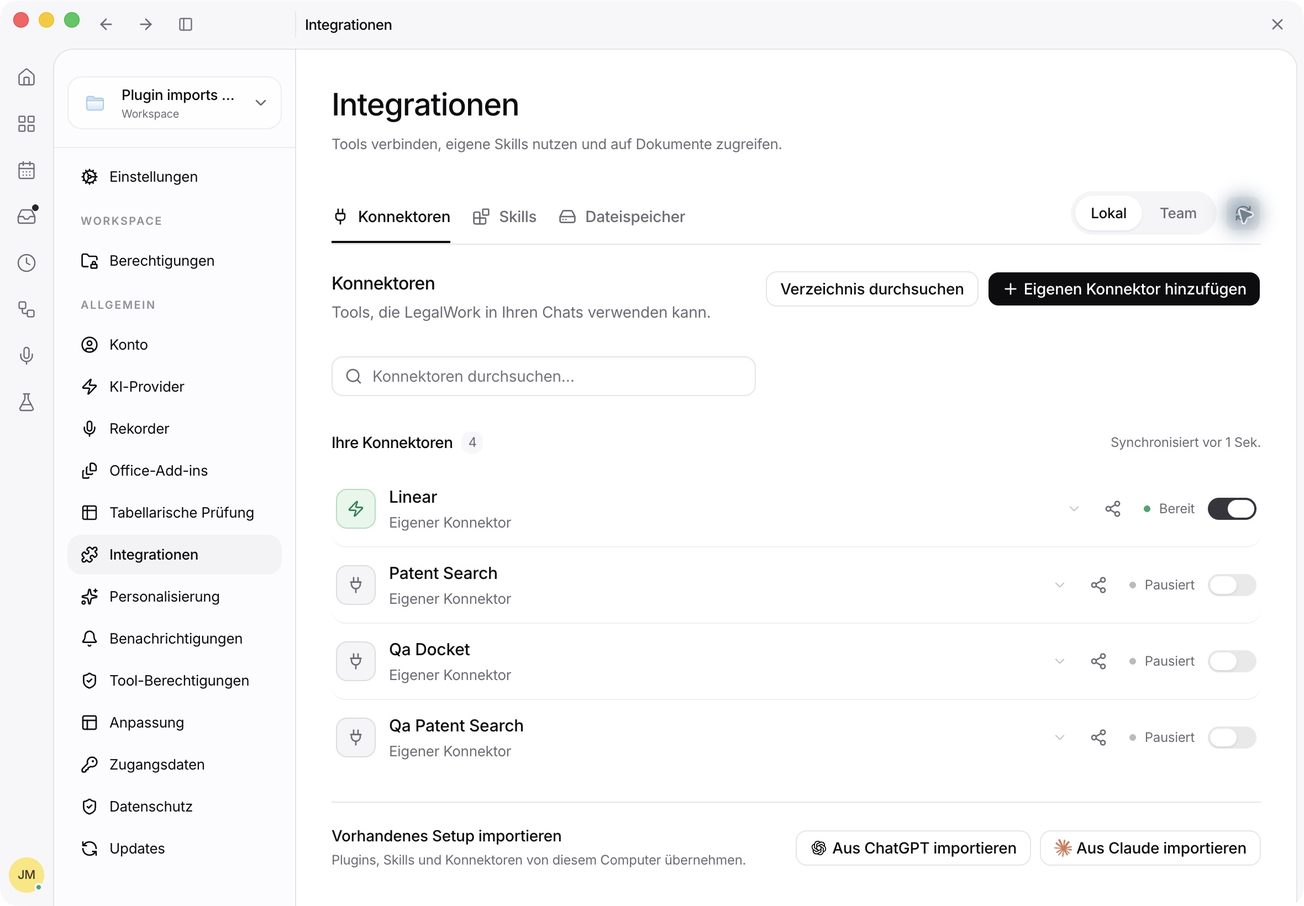
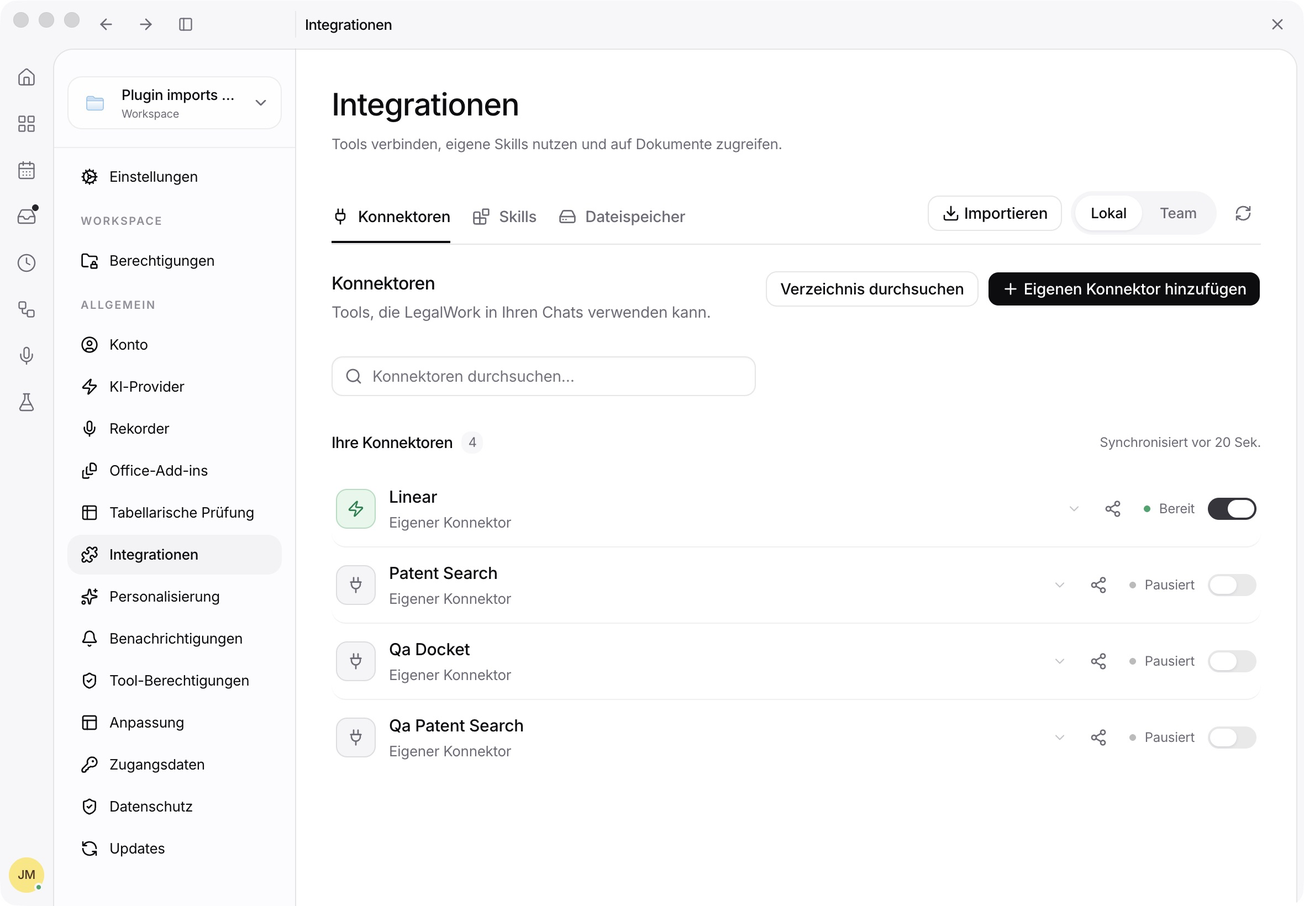
Combine provider imports into one toolbar action and chooser

diff --git a/apps/app/src/react-app/domains/settings/pages/plugin-import-dialog.tsx b/apps/app/src/react-app/domains/settings/pages/plugin-import-dialog.tsx
@@ -26,7 +26,8 @@ const componentIcons = { skill: Blocks, mcp: Plug, agent: Bot, command: Terminal
 const componentTitle = (type: PluginImportPreview["components"][number]["type"]) =>
   t(type === "skill" ? "skills.title" : type === "mcp" ? "extensions.connectors_label" : type === "agent" ? "composer.agents_label" : "dashboard.commands");
 
-export function PluginImportDialog(props: { provider: PluginImportProvider; store: PluginImportStore; onClose: () => void; onImported: (preview: PluginImportPreview) => void }) {
+export function PluginImportDialog(props: { store: PluginImportStore; onClose: () => void; onImported: (preview: PluginImportPreview) => void }) {
+  const [provider, setProvider] = useState<PluginImportProvider | null>(null);
   const [candidates, setCandidates] = useState<PluginImportCandidate[]>([]);
   const [discovering, setDiscovering] = useState(true);
   const [discoveryFailed, setDiscoveryFailed] = useState(false);
@@ -55,15 +56,25 @@ export function PluginImportDialog(props: { provider: PluginImportProvider; stor
 
   useEffect(() => {
     mounted.current = true;
+    if (!provider) return;
     let cancelled = false;
     setDiscovering(true);
     setDiscoveryFailed(false);
-    props.store.discoverPluginImports(props.provider)
+    props.store.discoverPluginImports(provider)
       .then(items => { if (!cancelled) setCandidates(items); })
       .catch(() => { if (!cancelled) setDiscoveryFailed(true); })
       .finally(() => { if (!cancelled) setDiscovering(false); });
     return () => { cancelled = true; mounted.current = false; };
-  }, [props.provider, props.store, discoveryRevision]);
+  }, [provider, props.store, discoveryRevision]);
+
+  useEffect(() => {
+    setCandidates([]);
+    setPreviews([]);
+    setSource(null);
+    setError(null);
+    setQuery("");
+    setFilter("all");
+  }, [provider]);
 
   const preview = async (nextSource: PluginImportSource, label: string) => {
     setBusy(true);
@@ -85,18 +96,19 @@ export function PluginImportDialog(props: { provider: PluginImportProvider; stor
   };
 
   const chooseFolder = async () => {
+    if (!provider) return;
     if (!isDesktopRuntime()) { folderInput.current?.click(); return; }
     try {
       const folder = await pickDirectory({ title: t("extensions.import_choose_folder") });
       if (typeof folder === "string") {
         setCopies([]);
-        await preview({ provider: props.provider, path: folder }, folder.split(/[\\/]/).pop() || t("extensions.import_unnamed"));
+        await preview({ provider, path: folder }, folder.split(/[\\/]/).pop() || t("extensions.import_unnamed"));
       }
     } catch (cause) { if (mounted.current) setError(cause instanceof Error ? cause.message : t("extensions.import_failed")); }
   };
 
   const upload = async (files: FileList | null, folder: boolean) => {
-    if (!files?.length) return;
+    if (!provider || !files?.length) return;
     const entries = Array.from(files);
     const label = entries[0].name;
     setBusy(true);
@@ -119,7 +131,7 @@ export function PluginImportDialog(props: { provider: PluginImportProvider; stor
         for (let offset = 0; offset < bytes.length; offset += 8192) binary += String.fromCharCode(...bytes.subarray(offset, offset + 8192));
         zipBase64 = btoa(binary);
       }
-      if (mounted.current) await preview({ provider: props.provider, zipBase64 }, label);
+      if (mounted.current) await preview({ provider, zipBase64 }, label);
     } catch (cause) {
       if (mounted.current) { setError(cause instanceof Error ? cause.message : t("extensions.import_failed")); setBusy(false); setStep("choose"); }
     }
@@ -139,11 +151,19 @@ export function PluginImportDialog(props: { provider: PluginImportProvider; stor
   };
 
   return <Dialog open onOpenChange={open => { if (!open && !installing) props.onClose(); }}>
-    <DialogContent className="flex max-h-[calc(100dvh-3rem)] flex-col gap-0 bg-background p-0 sm:max-w-2xl" showCloseButton={!installing}>
+    <DialogContent className={provider ? "flex max-h-[calc(100dvh-3rem)] flex-col gap-0 bg-background p-0 sm:max-w-2xl" : "bg-background"} showCloseButton={!installing}>
+      {provider === null ? <>
+        <DialogHeader className="pe-6"><DialogTitle>{t("integrations.import_title")}</DialogTitle><DialogDescription>{t("integrations.import_choose_provider")}</DialogDescription></DialogHeader>
+        <div className="space-y-3">
+          <Button autoFocus variant="outline" className="h-auto w-full justify-between gap-4 px-4 py-4" onClick={() => setProvider("chatgpt")}><span className="flex items-center gap-3"><ChatGptLogo className="size-6 shrink-0" />{t("extensions.import_chatgpt")}</span><ChevronRight className="size-4 text-muted-foreground" /></Button>
+          <Button variant="outline" className="h-auto w-full justify-between gap-4 px-4 py-4" onClick={() => setProvider("claude")}><span className="flex items-center gap-3"><img src={claudeLogo} alt="" aria-hidden="true" width={24} height={24} className="size-6 shrink-0" />{t("extensions.import_claude")}</span><ChevronRight className="size-4 text-muted-foreground" /></Button>
+        </div>
+      </> : <>
       <DialogHeader className="shrink-0 px-6 pb-5 pt-6">
+        {step === "choose" ? <Button variant="link" size="xs" className="mb-2 w-fit px-0 text-muted-foreground" disabled={busy} onClick={() => setProvider(null)}><ArrowLeft className="size-3.5" />{t("integrations.change_import_provider")}</Button> : null}
         <div className="mb-1 flex items-center gap-2.5 pe-8">
-          {props.provider === "chatgpt" ? <ChatGptLogo className="size-6 shrink-0" /> : <img src={claudeLogo} alt="" className="size-6 shrink-0" />}
-          <DialogTitle>{t(props.provider === "chatgpt" ? "extensions.import_chatgpt" : "extensions.import_claude")}</DialogTitle>
+          {provider === "chatgpt" ? <ChatGptLogo className="size-6 shrink-0" /> : <img src={claudeLogo} alt="" className="size-6 shrink-0" />}
+          <DialogTitle>{t(provider === "chatgpt" ? "extensions.import_chatgpt" : "extensions.import_claude")}</DialogTitle>
         </div>
         <DialogDescription>{t(step === "choose" ? "extensions.import_description" : "extensions.import_review_description")}</DialogDescription>
       </DialogHeader>
@@ -175,7 +195,7 @@ export function PluginImportDialog(props: { provider: PluginImportProvider; stor
               : filtered.length ? <div className="divide-y divide-border">{filtered.map(group => {
                 const item = group.candidate;
                 const Icon = item.kind === "connector" ? Plug : item.kind === "skill" ? Blocks : Package;
-                return <Button key={pluginImportCandidateKey(item)} variant="ghost" className="h-auto w-full justify-start gap-3 rounded-none px-4 py-3 text-start font-normal" onClick={() => { setCopies(group.sources); void preview({ provider: props.provider, path: item.path, connector: item.connector }, pluginImportName(item)); }}>
+                return <Button key={pluginImportCandidateKey(item)} variant="ghost" className="h-auto w-full justify-start gap-3 rounded-none px-4 py-3 text-start font-normal" onClick={() => { setCopies(group.sources); void preview({ provider, path: item.path, connector: item.connector }, pluginImportName(item)); }}>
                   <Icon className="size-5 shrink-0 text-muted-foreground" />
                   <span className="min-w-0 flex-1"><span className="block truncate font-medium text-foreground">{pluginImportName(item)}</span><span className="mt-0.5 block truncate text-xs text-muted-foreground">{item.kind === "connector" ? `${t("extensions.connectors_label")} · ` : ""}{item.description || t(item.kind === "skill" ? "extensions.import_skill" : "extensions.import_plugin")}</span></span>
                   {item.version ? <span className="max-w-24 truncate text-xs text-muted-foreground">{item.version}</span> : null}
@@ -199,7 +219,7 @@ export function PluginImportDialog(props: { provider: PluginImportProvider; stor
             })}
           </div> : null}
           {selected.warnings.length ? <details className="rounded-xl border border-border bg-muted/30 px-4 py-3"><summary className="cursor-pointer text-sm font-medium"><span className="inline-flex items-center gap-2"><TriangleAlert className="size-4 text-amber-11" />{t("extensions.import_compatibility", { count: selected.warnings.length })}</span></summary><ul className="mt-3 list-disc space-y-2 ps-5 text-sm leading-relaxed text-muted-foreground">{selected.warnings.map(warning => <li key={warning}>{warning}</li>)}</ul></details> : null}
-          <details className="text-sm"><summary className="cursor-pointer text-muted-foreground">{t("extensions.import_details")}</summary><div className="mt-3 space-y-3 rounded-lg bg-muted/30 p-3"><p className="break-all text-xs text-muted-foreground">{source && "path" in source ? source.path : sourceLabel}</p><p className="text-xs text-muted-foreground">{t("extensions.import_file_count", { count: selected.fileCount })} · {(selected.bytes / 1024 / 1024).toFixed(1)} MB</p><p className="text-xs leading-relaxed text-muted-foreground">{t(selected.format === "connectors" ? "extensions.import_connector_resources" : "extensions.import_resources")}</p>{copies.length > 1 ? <div className="space-y-2"><p className="text-xs font-medium">{t("extensions.import_other_copies")}</p>{copies.map(copy => <Button key={copy.path} variant="outline" size="sm" className="h-auto w-full justify-start whitespace-normal text-start" disabled={installing} aria-pressed={source !== null && "path" in source && source.path === copy.path} onClick={() => void preview({ provider: props.provider, path: copy.path }, pluginImportName(copy))}><span className="min-w-0"><span className="block">{copy.version || pluginImportName(copy)}</span><span className="block break-all text-xs text-muted-foreground">{copy.path}</span></span></Button>)}</div> : null}</div></details>
+          <details className="text-sm"><summary className="cursor-pointer text-muted-foreground">{t("extensions.import_details")}</summary><div className="mt-3 space-y-3 rounded-lg bg-muted/30 p-3"><p className="break-all text-xs text-muted-foreground">{source && "path" in source ? source.path : sourceLabel}</p><p className="text-xs text-muted-foreground">{t("extensions.import_file_count", { count: selected.fileCount })} · {(selected.bytes / 1024 / 1024).toFixed(1)} MB</p><p className="text-xs leading-relaxed text-muted-foreground">{t(selected.format === "connectors" ? "extensions.import_connector_resources" : "extensions.import_resources")}</p>{copies.length > 1 ? <div className="space-y-2"><p className="text-xs font-medium">{t("extensions.import_other_copies")}</p>{copies.map(copy => <Button key={copy.path} variant="outline" size="sm" className="h-auto w-full justify-start whitespace-normal text-start" disabled={installing} aria-pressed={source !== null && "path" in source && source.path === copy.path} onClick={() => void preview({ provider, path: copy.path }, pluginImportName(copy))}><span className="min-w-0"><span className="block">{copy.version || pluginImportName(copy)}</span><span className="block break-all text-xs text-muted-foreground">{copy.path}</span></span></Button>)}</div> : null}</div></details>
         </> : null}
         {error ? <div role="alert" className="rounded-lg border border-destructive/20 bg-destructive/5 px-3 py-2 text-sm text-destructive">{error}</div> : null}
       </div>
@@ -210,6 +230,7 @@ export function PluginImportDialog(props: { provider: PluginImportProvider; stor
         <span className="flex items-center gap-1.5 text-xs text-muted-foreground"><Layers className="size-3.5" />{t("extensions.import_all_projects")}</span>
         {step === "choose" ? <Button variant="outline" onClick={props.onClose}>{t("common.close")}</Button> : <div className="flex items-center gap-2"><Button variant="ghost" disabled={busy || installing} onClick={() => { setStep("choose"); setError(null); }}><ArrowLeft />{t("common.back")}</Button><Button disabled={busy || installing || !selected || !source} aria-busy={installing} onClick={() => void install()}>{installing ? <Loader2 className="animate-spin motion-reduce:animate-none" /> : null}{t(installing ? "extensions.import_installing" : "extensions.import_install")}</Button></div>}
       </DialogFooter>
+      </>}
     </DialogContent>
   </Dialog>;
 }

diff --git a/apps/app/src/react-app/domains/settings/pages/extensions-view.tsx b/apps/app/src/react-app/domains/settings/pages/extensions-view.tsx
@@ -1,14 +1,11 @@
-import type { PluginImportProvider } from "@legalwork/types/plugin-import";
 import { PluginImportDialog, type PluginImportStore } from "./plugin-import-dialog";
 /** @jsxImportSource react */
 import { useEffect, useState, type ReactNode } from "react";
-import { Blocks, Cpu, HardDrive, Plug, RefreshCw, type LucideIcon } from "lucide-react";
+import { Blocks, Cpu, Download, HardDrive, Plug, RefreshCw, type LucideIcon } from "lucide-react";
 
 import { t } from "../../../../i18n";
 import { Button } from "@/components/ui/button";
 import { SectionHeading } from "@/react-app/design-system/surface";
-import { ChatGptLogo } from "../../connections/provider-auth/chatgpt-plan-card";
-import claudeLogo from "@/assets/claude-logo.svg";
 
 import { PluginsView, type PluginsExtensionsStore } from "./plugins-view";
 import { HubScopeContext, HubScopeToggle, type HubScope } from "./hub-scope-context";
@@ -84,7 +81,7 @@ export function ExtensionsView(props: ExtensionsViewProps) {
       : props.initialSection === "skills"
         ? "skills"
         : "connectors";
-  const [importProvider, setImportProvider] = useState<PluginImportProvider | null>(null);
+  const [importOpen, setImportOpen] = useState(false);
   const [importVersion, setImportVersion] = useState(0);
   const [tab, setTab] = useState<ExtensionsTab>(initialTab);
   useEffect(() => setTab(initialTab), [initialTab]);
@@ -107,12 +104,13 @@ export function ExtensionsView(props: ExtensionsViewProps) {
       {props.showHeader !== false ? <SectionHeading size="page" title={t("extensions.eyebrow_integrations")} description={t("integrations.description")} action={
         <Button variant="ghost" size="icon-sm" disabled={props.busy} aria-label={t("common.refresh")} title={t("common.refresh")} onClick={() => { setImportVersion(value => value + 1); props.onRefresh(); }}><RefreshCw /></Button>
       } /> : null}
-      {importProvider && props.pluginImports ? <PluginImportDialog provider={importProvider} store={props.pluginImports} onClose={() => setImportProvider(null)} onImported={preview => { setImportVersion(value => value + 1); selectTab(preview.format === "connectors" ? "connectors" : "skills"); props.onRefresh(); }} /> : null}
+      {importOpen && props.pluginImports ? <PluginImportDialog store={props.pluginImports} onClose={() => setImportOpen(false)} onImported={preview => { setImportVersion(value => value + 1); selectTab(preview.format === "connectors" ? "connectors" : "skills"); props.onRefresh(); }} /> : null}
       <div className="flex flex-wrap items-center justify-between gap-x-6 gap-y-2 border-b border-border">
         <div role="group" aria-label={t("extensions.eyebrow_integrations")} className="flex flex-wrap gap-5">
           {TABS.map(({ id, label, icon: Icon }) => <button key={id} type="button" aria-pressed={tab === id} onClick={() => selectTab(id)} className={`inline-flex items-center gap-2 border-b-2 py-3 text-sm font-medium transition-colors focus-visible:outline-none focus-visible:ring-2 focus-visible:ring-ring ${tab === id ? "border-foreground text-foreground" : "border-transparent text-muted-foreground hover:text-foreground"}`}><Icon className="size-4" />{label}</button>)}
         </div>
         <div className="flex flex-wrap items-center gap-2 pb-2">
+          {hubScope === "local" && tab !== "storage" && props.pluginImports ? <Button variant="outline" size="sm" disabled={props.busy || !props.canEditPlugins || !props.canUseGlobalScope} onClick={() => setImportOpen(true)}><Download className="size-4" />{t("integrations.import_action")}</Button> : null}
           {teamHub || tab === "storage" ? <HubScopeToggle scope={hubScope} onChange={setHubScope} /> : null}
           {hubScope === "team" && tab !== "storage" && props.onOpenTeamShare ? <Button size="sm" variant="outline" onClick={props.onOpenTeamShare}>{t("extensions.share_with_firm")}</Button> : null}
           {props.showHeader === false ? <Button variant="ghost" size="icon-sm" disabled={props.busy} aria-label={t("common.refresh")} title={t("common.refresh")} onClick={() => { setImportVersion(value => value + 1); props.onRefresh(); }}><RefreshCw /></Button> : null}
@@ -143,13 +141,6 @@ export function ExtensionsView(props: ExtensionsViewProps) {
         />
       ) : null}
       </HubScopeContext.Provider>
-      {hubScope === "local" && tab !== "storage" && props.pluginImports ? <div className="flex flex-wrap items-center justify-between gap-3 border-t border-border pt-5">
-        <div className="min-w-0"><p className="text-sm font-medium">{t("integrations.import_title")}</p><p className="mt-0.5 text-xs leading-5 text-muted-foreground">{t("integrations.import_description")}</p></div>
-        <div className="flex flex-wrap items-center gap-2">
-          <Button variant="outline" size="sm" disabled={props.busy || !props.canEditPlugins || !props.canUseGlobalScope} onClick={() => setImportProvider("chatgpt")}><ChatGptLogo className="size-4" />{t("extensions.import_chatgpt")}</Button>
-          <Button variant="outline" size="sm" disabled={props.busy || !props.canEditPlugins || !props.canUseGlobalScope} onClick={() => setImportProvider("claude")}><img src={claudeLogo} alt="" aria-hidden="true" width={16} height={16} className="size-4 shrink-0" />{t("extensions.import_claude")}</Button>
-        </div>
-      </div> : null}
     </section>
   );
 }

diff --git a/apps/app/tests/plugin-import-buttons.test.tsx b/apps/app/tests/plugin-import-buttons.test.tsx
@@ -10,12 +10,16 @@ const props: ExtensionsViewProps = {
 };
 test("plugin imports are available on Extensions without enabling developer mode", () => {
   const html = renderToStaticMarkup(<ExtensionsView {...props} />);
-  expect(html).toContain("Import from ChatGPT"); expect(html).toContain("Import from Claude");
+  const importButtons = html.match(/<button\b[^>]*>(?:(?!<\/button>)[\s\S])*?>Import<\/button>/g) ?? [];
+  expect(importButtons).toHaveLength(1);
+  expect(importButtons[0]).not.toMatch(/^<button\b[^>]*\sdisabled(?:=|[\s>])/);
+  expect(html).not.toContain("Import from ChatGPT");
+  expect(html).not.toContain("Import from Claude");
   expect(html).not.toContain("Engine plugins");
 });
 test("read-only clients keep visible but disabled import actions", () => {
   const html = renderToStaticMarkup(<ExtensionsView {...props} canEditPlugins={false} />);
-  const importButtons = html.match(/<button\b[^>]*>(?:(?!<\/button>)[\s\S])*Import from (?:ChatGPT|Claude)<\/button>/g) ?? [];
-  expect(importButtons).toHaveLength(2);
-  for (const button of importButtons) expect(button).toMatch(/^<button[^>]+disabled/);
+  const importButtons = html.match(/<button\b[^>]*>(?:(?!<\/button>)[\s\S])*?>Import<\/button>/g) ?? [];
+  expect(importButtons).toHaveLength(1);
+  for (const button of importButtons) expect(button).toMatch(/^<button\b[^>]*\sdisabled(?:=|[\s>])/);
 });

diff --git a/apps/app/src/i18n/locales/de.ts b/apps/app/src/i18n/locales/de.ts
@@ -21,6 +21,9 @@ const de = {
   "integrations.all_skills": "Alle Skills",
   "integrations.description": "Verbinden Sie Ihre Tools, nutzen Sie eigene Skills und greifen Sie auf Ihre Dokumente zu.",
   "integrations.import_title": "Vorhandenes Setup importieren",
+  "integrations.import_action": "Importieren",
+  "integrations.import_choose_provider": "Wählen Sie aus, von welcher App Sie Ihre Plugins, Skills und Konnektoren übernehmen möchten.",
+  "integrations.change_import_provider": "App wechseln",
   "integrations.import_description": "Plugins, Skills und Konnektoren von diesem Computer übernehmen.",
   "integrations.connectors_description": "Tools, die LegalWork in Ihren Chats verwenden kann.",
   "integrations.skills_description": "Anleitungen und Fachwissen für Ihre Arbeitsweise.",

diff --git a/apps/app/src/i18n/locales/en.ts b/apps/app/src/i18n/locales/en.ts
@@ -11,6 +11,9 @@ export default {
   "integrations.all_skills": "All skills",
   "integrations.description": "Connect your tools, teach LegalWork your workflows, and bring your files into reach.",
   "integrations.import_title": "Import your existing setup",
+  "integrations.import_action": "Import",
+  "integrations.import_choose_provider": "Choose where to import your plugins, skills and connectors from.",
+  "integrations.change_import_provider": "Change app",
   "integrations.import_description": "Bring in plugins, skills and connectors from this computer.",
   "integrations.connectors_description": "Tools LegalWork can use in your conversations.",
   "integrations.skills_description": "Instructions and expertise for the way you work.",

diff --git a/apps/app/src/react-app/domains/settings/pages/skills-view.tsx b/apps/app/src/react-app/domains/settings/pages/skills-view.tsx
@@ -1833,7 +1833,7 @@ export function ImportSkillsButton(props: {
         disabled={props.busy}
       >
         <Download size={14} />
-        {t("skills.import")}
+        {t(asWorkflow ? "skills.import" : "skills.import_skills_title")}
       </Button>
       <Dialog
         open={open}

diff --git a/docs/plugin-imports.md b/docs/plugin-imports.md
@@ -1,12 +1,12 @@
 # Import ChatGPT and Claude plugins
 
-On **Integrations**, choose **Import from ChatGPT** or **Import from Claude**. The dialog first shows a searchable list of plugins, skills and standalone MCP connectors found on this computer, using display names and descriptions from package metadata. **All / Plugins / Skills / Connectors** filters sit below the search field and work together with search; returning from a preview keeps both selections. Duplicate versions appear as one row, with other copies available in the source details. You can also choose a complete folder or ZIP with the native file picker. Selecting a source opens a separate review of its skills, connectors, agents, commands and compatibility notices before importing. A folder or archive containing multiple plugin manifests lets you choose the package to import. Import each package individually.
+On **Integrations**, choose **Import** in the top toolbar, then select **ChatGPT** or **Claude** in the provider chooser. Both choices show their logos. **Change app** returns to the chooser. The next dialog shows a searchable list of plugins, skills and standalone MCP connectors found on this computer, using display names and descriptions from package metadata. **All / Plugins / Skills / Connectors** filters sit below the search field and work together with search; returning from a preview keeps both selections. Duplicate versions appear as one row, with other copies available in the source details. You can also choose a complete folder or ZIP with the native file picker. Selecting a source opens a separate review of its skills, connectors, agents, commands and compatibility notices before importing. A folder or archive containing multiple plugin manifests lets you choose the package to import. Import each package individually.
 
 Imports are automatically available in all projects, matching the desktop Skills and Connectors libraries. Choose a folder using the native file picker, choose a ZIP, or select an auto-discovered installation. Preview opens automatically after selection. Discovery, installation and removal require owner access and respect custom-plugin, skill and connector policies. The underlying API retains project-scoped installation support for existing integrations.
 
 ## Integration libraries
 
-The Integrations page keeps **Connectors / Skills / Data storage** separate, with a shared header, category navigation, search and readable lists. Local/Team remains a library scope, not a project-scoped plugin setting. The ChatGPT and Claude import buttons keep their logos and sit below the connector/skill library so existing items take priority.
+The Integrations page keeps **Connectors / Skills / Data storage** separate, with a shared header, category navigation, search and readable lists. Local/Team remains a library scope, not a project-scoped plugin setting. A single Import action in the top toolbar opens a ChatGPT/Claude chooser with both logos. The Skills page labels its separate folder/ZIP action Import skills. The former import footer is removed.
 
 - **Connectors:** saved connections and active built-in tools appear first; ready items precede paused/offline items. Paused connectors remain available to enable or inspect. Browse directory opens a separate, searchable catalog with All / Services / LegalWork tools filters. Closing a detail returns to the same directory search. Technical setup stays in details. Own connectors, sign-in, removal, sharing, policy restrictions and read-only global configuration retain the existing behavior.
 - **Skills:** the complete installed library uses compact rows with a management menu for editing, exporting, sharing and removal. All skills / Your skills / Included / Imported packages filters separate skill use from package management. Search includes readable imported names, descriptions and built-in commands. Ordinary skills no longer inherit the eight-item workflow page limit; workflows retain pagination. Package loading and failures have explicit states.
@@ -78,7 +78,9 @@ Native Electron verification found existing installations for both providers, fi
 
 ## Library redesign verification
 
-![Connected-first connector library in Electron](images/integrations-connectors-library.png)
+![Single import action and connected-first connector library in Electron](images/integrations-connectors-library.png)
+
+![ChatGPT and Claude provider chooser in Electron](images/integrations-import-chooser.png)
 
 ![Skills library in Electron](images/integrations-skills-library.png)
 
@@ -89,3 +91,5 @@ Native Electron verification found existing installations for both providers, fi
 ![Storage provider picker in Electron](images/integrations-storage-picker.png)
 
 Native Electron checks cover tab navigation, connector search and clear, directory filters/search/detail return, custom connector setup, skills search by a built-in command and imported name, the management menu and editor, package filtering, storage provider search, configuration and Change provider. These checks did not add or remove a real connection. The application suite passed 940 tests; the final focused library/setup/import suite passed 20 tests. App type checking, production build and the English/German translation check passed. Regression coverage includes libraries with more than eight ordinary skills, built-in command search, configured connector ordering, read-only global connectors, separate provider discovery, and local/team storage membership.
+
+Import chooser follow-up: the single top-toolbar action and branded provider chooser were checked in Electron, including entry into ChatGPT discovery and component review. `pnpm --filter @legalwork/app exec bun test tests/plugin-import-buttons.test.tsx tests/plugin-import-presentation.test.ts tests/integration-libraries.test.tsx tests/mcp-library.test.tsx` passed 15 tests. App type checking, production build and the locale check passed (5,723 keys per language).
